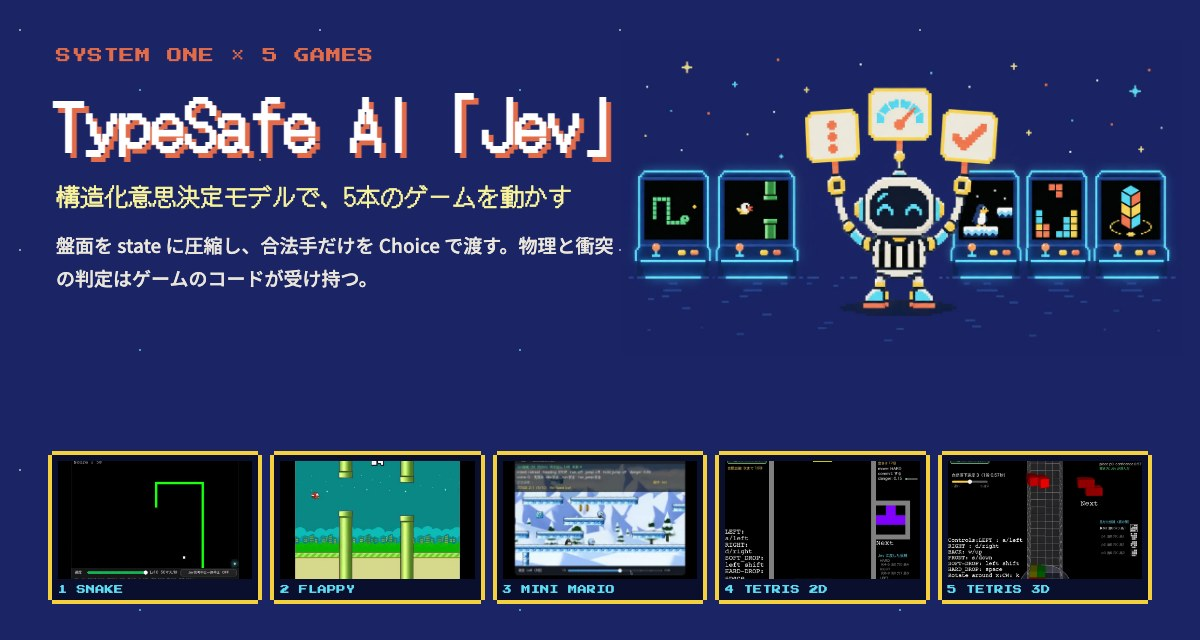
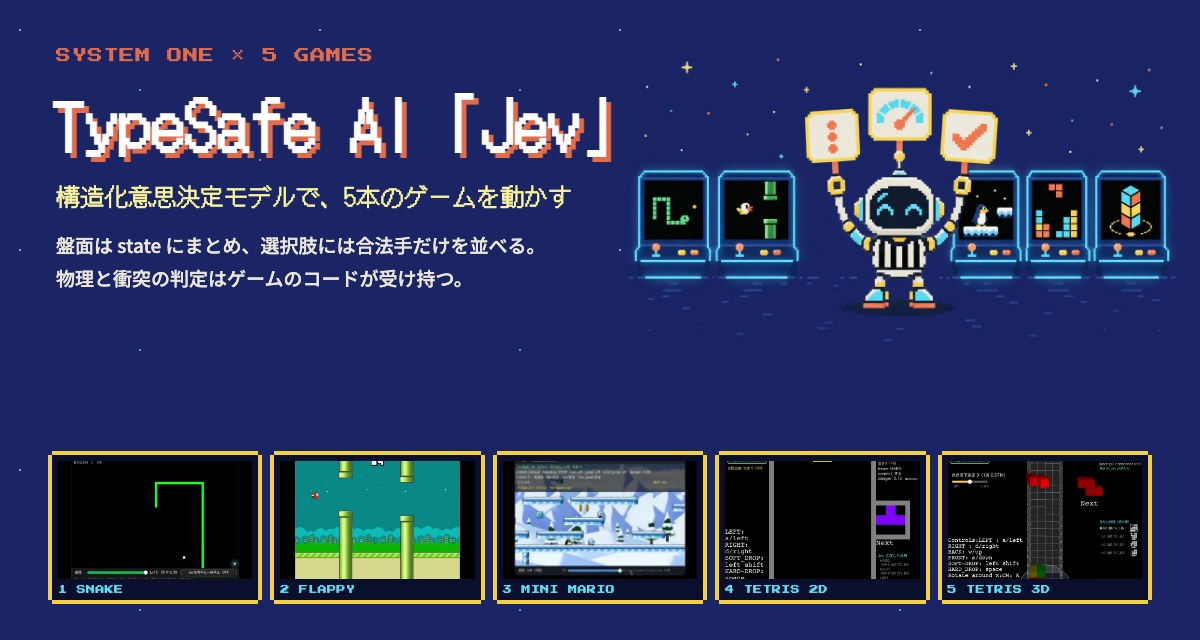
Jev のページを Codex の校正に沿って直し、経歴文の節を外す
- 経歴文（職務経歴書用）の節と COPY ボタンを削除（文はローカルの .md に移した）
- 表紙に「合法手」の説明を追加
- Jev とゲームのコードの分担、Choice 以外の型もあることを正確に書き直した
- 用語（ハーネス・生キー版・井戸・El-Tetris の重み）の説明、数字の出どころを明記
- トップのカード: 「ゲーム（…）をAIにプレイさせた。」に変更。バナー画像の文も更新

Changed region(s): [[0.0308, 0.3438, 0.5242, 0.4688]]

diff --git a/jev/index.html b/jev/index.html
@@ -6,7 +6,7 @@
 <title>TypeSafe AI「Jev」でゲームを5本動かした記録 — tobisako</title>
 <meta name="description" content="TypeSafe AI の System One モデル Jev（構造化意思決定モデル）に判定を任せ、ヘビ・フラッピーバード・ミニマリオ・テトリス2D・テトリス3Dを動かした記録と録画。">
 <meta property="og:title" content="TypeSafe AI「Jev」でゲームを5本動かした記録">
-<meta property="og:description" content="盤面を state に圧縮し、合法手だけを Choice として渡し、物理と衝突はゲームのコードが処理する。判定モデルとハーネスのデモ。">
+<meta property="og:description" content="Jev とゲームのコードで判定を分担し、ゲームを5本動かしたデモ。盤面は state にまとめ、Jev に渡す選択肢には合法手だけを並べ、物理演算と衝突判定はゲームのコードが処理する。">
 <meta property="og:image" content="https://tobisako.github.io/cv/jev/img/hero.jpg">
 <meta property="og:type" content="article">
 <link rel="icon" type="image/svg+xml" href="../assets/favicon.svg">
@@ -85,7 +85,7 @@
   @media(max-width:760px){.stats{grid-template-columns:repeat(2,1fr)}}
   .stat{--c:var(--cyan);padding:14px 16px}
   .stat .n{font-size:28px;color:var(--yellow);line-height:1.2}
-  .stat .n small{font-size:14px;color:var(--paper)}
+  .stat .n small{font-size:14px;color:var(--paper);margin-left:.3em}
   .stat .t{margin-top:4px;font-size:13.5px;color:var(--dim);line-height:1.6}
   .press{display:inline-block;margin-top:26px;font-size:13px;color:var(--pale);text-decoration:none}
   .press:hover{color:var(--yellow)}
@@ -141,7 +141,7 @@
   .select a:hover{--c:var(--yellow);transform:translate(-2px,-2px);color:#fff}
   .select a .s{font-family:"Press Start 2P",monospace;font-size:9px;color:var(--coral)}
   .select a .g{display:block;font-family:"DotGothic16",monospace;font-size:17px;margin-top:6px}
-  .dd{font-family:"Press Start 2P",monospace;font-size:.72em;letter-spacing:0}  /* DotGothic16 の D は 0 に見えるので */
+  .dd{font-family:"Press Start 2P",monospace;font-size:.72em;letter-spacing:0;margin-left:.35em}  /* DotGothic16 の D は 0 に見えるので */
   .select a img{display:block;width:100%;aspect-ratio:4/3;object-fit:cover;margin-top:8px;image-rendering:auto;filter:saturate(1.1)}
 
   /* ステージ */
@@ -180,12 +180,6 @@
   .tip{--c:var(--yellow);padding:14px 18px 14px 58px;position:relative;font-size:16px;line-height:1.8}
   .tip::before{content:"★";position:absolute;left:18px;top:12px;color:var(--yellow);font-size:22px}
 
-  /* 経歴文（紙） */
-  .paper{--c:var(--paper);background:var(--paper);color:var(--ink);padding:22px 24px;margin-top:18px;font-size:16px;line-height:2}
-  .copy{margin-top:12px;font-family:"Press Start 2P",monospace;font-size:10px;background:var(--coral);color:#fff;border:0;padding:10px 14px;cursor:pointer}
-  .copy:hover{background:var(--yellow);color:var(--ink)}
-  .copied{margin-left:10px;font-family:"Press Start 2P",monospace;font-size:10px;color:var(--yellow);opacity:0;transition:opacity .2s}
-
   /* 出典 */
   .credits{margin-top:14px;font-size:14px;line-height:1.9;color:var(--dim)}
   .credits li{margin-left:1.2em}
@@ -221,7 +215,7 @@
     <div class="kicker arcade">SYSTEM ONE × 5 GAMES</div>
     <h1 class="dot">TypeSafe AI「Jev」<small>System One モデル／構造化意思決定モデル</small></h1>
     <div class="en mono">TypeSafe AI Jev — System One evaluation model (typed decisions: Choice / Score / Boolean)</div>
-    <p class="lead">Jev に判定を任せて、ゲームを5本動かしました。盤面を state に圧縮し、合法手だけを Choice として渡し、物理と衝突はゲームのコードが処理します。そのつくりと録画をまとめたページです。</p>
+    <p class="lead">Jev とゲームのコードで判定を分担して、ゲームを5本動かしました。盤面は state にまとめ、Jev に渡す選択肢には合法手だけを並べます。将棋・囲碁・チェスでは「ルール上打てる手」を合法手と呼びます。物理演算と衝突判定はゲームのコードが処理します。このページには、そのつくりと録画をまとめました。</p>
 
     <div class="hero-grid">
       <img class="hero-img" src="img/hero.jpg" alt="3枚の札（選択肢・メーター・チェック）を上げた判定係のロボットと、ヘビ・鳥・ペンギン・落ちものブロック・3Dの塔が映る5台のゲーム画面" width="1200" height="676">
@@ -232,10 +226,10 @@
     </div>
 
     <div class="stats">
-      <div class="stat pxbox"><div class="n dot" data-count="5">5<small> 本</small></div><div class="t">ゲーム（ヘビ・フラッピーバード・ミニマリオ・テトリス2D・テトリス3D）</div></div>
-      <div class="stat pxbox"><div class="n dot" data-count="13">13<small> 本</small></div><div class="t">録画（ほかにスクリーンショット4枚）</div></div>
-      <div class="stat pxbox"><div class="n dot" data-count="3">3<small> 種類</small></div><div class="t">判定の型（Choice / Score / Boolean）</div></div>
-      <div class="stat pxbox"><div class="n dot">0.3〜0.7<small> 秒</small></div><div class="t">1回の判定（この環境での計測）</div></div>
+      <div class="stat pxbox"><div class="n dot" data-count="5">5<small>本</small></div><div class="t">ゲーム（ヘビ・フラッピーバード・ミニマリオ・テトリス2D・テトリス3D）</div></div>
+      <div class="stat pxbox"><div class="n dot" data-count="13">13<small>本</small></div><div class="t">録画（ほかにスクリーンショット4枚）</div></div>
+      <div class="stat pxbox"><div class="n dot" data-count="3">3<small>種類</small></div><div class="t">判定の型（Choice / Score / Boolean）</div></div>
+      <div class="stat pxbox"><div class="n dot">0.3〜0.7<small>秒</small></div><div class="t">1回の判定（この環境での計測）</div></div>
     </div>
     <a class="press arcade" href="#select">PRESS START <span class="blink">▶</span></a>
   </header>
@@ -244,9 +238,9 @@
   <section id="about">
     <h2>Jev とは <span class="tag">ABOUT</span></h2>
     <div class="body">
-      <p>Jev は TypeSafe AI が 2026 年に出した、文章を書かない意思決定モデルです。入力は会話履歴ではなく、プログラムが渡す state（状況）と、型のついた questions（判定項目）です。出力は作文ではなく、選択肢・スコア・真偽の確率です。コードはその値で分岐します。</p>
+      <p>Jev は、TypeSafe AI が 2026 年に公開した意思決定モデルです。入力は会話履歴ではなく、プログラムが渡す state（状況）と、型のついた questions（判定項目）です。出力は文章ではなく、選択の結果・スコア・真である確率で、コードはその値で分岐します。</p>
       <p>ChatGPT 系は、トークンを順に生成する対話・作文のモデルです。Jev は、同じ state に対する複数の判定をまとめて返し、その値をソフトウェアがそのまま使います。公式ブログはこれを「<span class="mono">unstructured state in, typed probabilistic decisions out</span>」と書いています。<a class="src" href="https://typesafe.ai/blog/introducing-system-one-models-and-jev" target="_blank" rel="noopener">[1]</a> Jev を置くのは、エージェントやゲームループの中で次の一手を決める層です。</p>
-      <p>Vercel AI Gateway でのモデル名は <code>typesafe-ai/jev</code> で、呼び出しはチャット API ではなく AI SDK の evaluate です。<a class="src" href="https://vercel.com/docs/ai-gateway/modalities/evaluation" target="_blank" rel="noopener">[4]</a> 判定の種類は Choice（列挙から1つ選ぶ）、Score（段階の尺度）、Boolean（真である確率。TypeSafe のドキュメントでの名前は Noul）の3つです。<a class="src" href="https://docs.typesafe.ai/concepts/system-one" target="_blank" rel="noopener">[2]</a></p>
+      <p>Vercel AI Gateway でのモデル名は <code>typesafe-ai/jev</code> で、チャット API ではなく、AI SDK の evaluate から呼び出します。<a class="src" href="https://vercel.com/docs/ai-gateway/modalities/evaluation" target="_blank" rel="noopener">[4]</a> 判定の種類は3つで、AI SDK の型名では Choice（並べた候補から1つ選ぶ）、Score（段階で評価する）、Boolean（真である確率）です。Boolean は、TypeSafe AI のドキュメントでは Noul と呼ばれています。<a class="src" href="https://docs.typesafe.ai/concepts/system-one" target="_blank" rel="noopener">[2]</a></p>
     </div>
   </section>
 
@@ -268,7 +262,7 @@
   <!-- ===== 共通のつくり ===== -->
   <section id="harness">
     <h2>5本に共通するつくり <span class="tag">HARNESS</span></h2>
-    <div class="body"><p>ゲームのデモは、Jev 単体にゲームを遊ばせたものではありません。判定モデルと、それを囲むハーネスの組み合わせです。</p></div>
+    <div class="body"><p>ゲームのデモは、Jev 単体にゲームを遊ばせたものではありません。判定モデルと、その周りで Jev を制御するコード（ハーネス）の組み合わせです。</p></div>
     <div class="flow" aria-label="処理の流れ">
       <div class="node pxbox"><b>ゲーム</b><span>Python・pygame</span></div>
       <div class="arrow" aria-hidden="true">▶</div>
@@ -284,9 +278,9 @@
     </div>
     <ol class="rules">
       <li class="pxbox">画面は送らない。盤面・位置・先読みの結果を、JSON 形式の state にまとめる。</li>
-      <li class="pxbox">選択肢は、コードが「打てる」と確かめた手だけにする。各選択肢には、選んだ場合にどうなるかを示す数字を添える。</li>
+      <li class="pxbox">選択肢は、コードが「打てる」と確かめた手（合法手）だけにする。各選択肢には、選んだ場合にどうなるかを示す数字を添える。</li>
       <li class="pxbox">物理・当たり判定・ライン消しには、ゲーム側のコードをそのまま使う。Jev が返すのは、どの分岐を選ぶかだけ。</li>
-      <li class="pxbox">答えが来ない・遅い・候補の外のときは、コードが先読みで1位になった手を選んで進める。</li>
+      <li class="pxbox">答えが来ないとき、間に合わないとき、候補にない答えが返ってきたときは、コード自身の評価で1位の手を選んで進める。</li>
     </ol>
     <div class="term pxbox mono" aria-live="off">
       <div class="bar">BRIDGE LOG — 127.0.0.1:8787</div>
@@ -302,8 +296,8 @@
       <a class="pxbox" href="#stage1"><span class="s">STAGE 1</span><span class="g">ヘビ</span><img src="media/snake-window.jpg" alt="" loading="lazy"></a>
       <a class="pxbox" href="#stage2"><span class="s">STAGE 2</span><span class="g">フラッピーバード</span><img src="media/flappy.jpg" alt="" loading="lazy"></a>
       <a class="pxbox" href="#stage3"><span class="s">STAGE 3</span><span class="g">ミニマリオ</span><img src="media/mario.jpg" alt="" loading="lazy"></a>
-      <a class="pxbox" href="#stage4"><span class="s">STAGE 4</span><span class="g">テトリス <span class="dd">2D</span></span><img src="media/tetris2d-v2.jpg" alt="" loading="lazy"></a>
-      <a class="pxbox" href="#stage5"><span class="s">STAGE 5</span><span class="g">テトリス <span class="dd">3D</span></span><img src="media/tetris3d.jpg" alt="" loading="lazy"></a>
+      <a class="pxbox" href="#stage4"><span class="s">STAGE 4</span><span class="g">テトリス<span class="dd">2D</span></span><img src="media/tetris2d-v2.jpg" alt="" loading="lazy"></a>
+      <a class="pxbox" href="#stage5"><span class="s">STAGE 5</span><span class="g">テトリス<span class="dd">3D</span></span><img src="media/tetris3d.jpg" alt="" loading="lazy"></a>
     </div>
   </section>
 
@@ -322,7 +316,7 @@
         <div class="facts">
           <div class="fact pxbox"><span class="k">Jev に聞くこと</span>次に進む向き（Choice）。逆走や即死につながる向きは、コードが先に選択肢から外す。</div>
           <div class="fact pxbox"><span class="k">コードが受け持つこと</span>向きごとに、進んだ先の状態（エサまでの距離、残る広さ）を計算して、選択肢の説明に書く。壁に当たってもゲームオーバーにせず、画面を赤く光らせる。</div>
-          <div class="fact pxbox"><span class="k">経過</span>最初は向きの名前だけを渡し、答えは RIGHT に偏った。向きごとの先読みの結果を選択肢に書き足すと、Jev がエサに近づく向きを選ぶようになった。</div>
+          <div class="fact pxbox"><span class="k">経過</span>最初は向きの名前だけを渡したところ、Jev の答えは RIGHT に偏った。向きごとの先読みの結果を選択肢に書き足すと、Jev がエサに近づく向きを選ぶようになった。</div>
         </div>
         <div class="score pxbox"><span class="l">SCORE</span><span class="v" data-hiscore="81">81 点</span></div>
         <div class="cap">録画の中での最高得点</div>
@@ -362,32 +356,32 @@
       </div>
       <div>
         <div class="facts">
-          <div class="fact pxbox"><span class="k">Jev に聞くこと</span>4フレームに1回、6問を1回の evaluate で（進む・戻る等の方針、左右、ダッシュ、ジャンプ、長押し、危険度）。</div>
+          <div class="fact pxbox"><span class="k">Jev に聞くこと</span>6問（進む・戻る等の方針、左右、ダッシュ、ジャンプ、長押し、危険度）。4フレームに1回、1回の evaluate でまとめて聞く。</div>
           <div class="fact pxbox"><span class="k">コードが受け持つこと</span>物理演算と当たり判定、同じ物理モデルでの先読み（跳んだら着地まで確かめる）、安全装置。安全装置は Jev の答えより優先する。</div>
-          <div class="fact pxbox"><span class="k">ステージ</span>自作4本と、SuperTux のアドオン用コースから変換した6本の、計10本。速度は20倍まで上げられる。</div>
-          <div class="fact pxbox"><span class="k">通信</span>録画の終わりの時点で、問い合わせ205回のうち失敗5回（0.7秒の打ち切り）。この回の起動からの計測では、答えが届くまでの時間は中央値0.32秒、最大0.65秒。</div>
+          <div class="fact pxbox"><span class="k">ステージ</span>自作の4本と、SuperTux のアドオン用コースから変換した6本の計10本。速度は20倍まで上げられる。</div>
+          <div class="fact pxbox"><span class="k">通信</span>この節の録画が終わった時点で、問い合わせは205回、そのうち失敗は5回（打ち切りは0.7秒）。この回の起動からの計測では、答えが届くまでの時間は中央値0.32秒、最大0.65秒。</div>
         </div>
         <div class="score pxbox"><span class="l">STAGE</span><span class="v">9 / 10</span></div>
-        <div class="cap">録画では STAGE 2-5「Ghostforest」まで到達</div>
+        <div class="cap">録画では、10ステージ中9番目の STAGE 2-5「Ghostforest」まで到達</div>
       </div>
     </div>
   </section>
 
   <!-- ===== STAGE 4 ===== -->
   <section class="stage" id="stage4">
-    <div class="head"><span class="num">STAGE 4</span><h3>テトリス <span class="dd">2D</span></h3>
+    <div class="head"><span class="num">STAGE 4</span><h3>テトリス<span class="dd">2D</span></h3>
       <span class="orig">元のゲーム: <a href="https://github.com/GABETROLL/Tetris3D" target="_blank" rel="noopener">GABETROLL/Tetris3D</a> の 2D モード（10×20）</span></div>
     <div class="grid">
       <div class="vids">
         <div><div class="cabinet pxbox"><video src="media/tetris2d-v2.mp4" poster="media/tetris2d-v2.jpg" controls preload="none" playsinline></video></div>
-          <div class="cap">録画2（効果音あり）。右上に送受信のハートビート、盤の上に「間に合わず」の表示を付けた版。13倍速で26ラインを消した。</div></div>
+          <div class="cap">録画2（効果音あり）。右上に Jev との送受信を示すハートビート、盤の上に「間に合わず」（Jev の答えが届く前にミノが固定された印）の表示を付けた版。13倍速で26ラインを消した。</div></div>
         <div><div class="cabinet pxbox"><video src="media/tetris2d.mp4" poster="media/tetris2d.jpg" controls preload="none" playsinline></video></div>
           <div class="cap">録画1（効果音あり）。10秒ごとに速度を上げて、16倍速で67ラインのときゲームオーバー。</div></div>
       </div>
       <div>
         <div class="facts">
-          <div class="fact pxbox"><span class="k">Jev に聞くこと</span>このミノをどこに置くか（Choice）、Jev が選んだ場所にミノが着いたら落とすか（Boolean）、危険度（Score）。</div>
-          <div class="fact pxbox"><span class="k">コードが受け持つこと</span>置き場所を全部、ゲーム自身の関数で試して点を付ける（El-Tetris の重み）。1位との点差が15点以内の候補だけを、最大4つ渡す。1つしか残らなければ聞かずに置く。</div>
+          <div class="fact pxbox"><span class="k">Jev に聞くこと</span>このミノをどこに置くか（Choice）、選んだ位置と向きまでミノを動かしたら、そこで一気に落とすか（Boolean）、危険度（Score）。</div>
+          <div class="fact pxbox"><span class="k">コードが受け持つこと</span>置き場所をすべてゲーム自身の関数で試し、置いたあとの盤を El-Tetris の重み（着地の高さ・消えるライン・穴などに掛ける係数）で採点する。1位との点差が15点以内の候補だけを、最大4つ渡す。1つしか残らなければ聞かずに置く。</div>
           <div class="fact pxbox"><span class="k">繋ぐ前に確かめたこと</span>候補からでたらめに選ぶ偽の橋でも、800個のミノを置くまでゲームオーバーにならなかった。</div>
           <div class="fact pxbox"><span class="k">ゲームオーバーの理由</span>16倍速では、Jev が答える約0.3秒のあいだにミノが約10段落ちる。応答の遅れだけを16倍速のときと同じにしたシミュレーションでも、約72ラインで同じように終わった。</div>
         </div>
@@ -399,7 +393,7 @@
 
   <!-- ===== STAGE 5 ===== -->
   <section class="stage" id="stage5">
-    <div class="head"><span class="num">STAGE 5</span><h3>テトリス <span class="dd">3D</span></h3>
+    <div class="head"><span class="num">STAGE 5</span><h3>テトリス<span class="dd">3D</span></h3>
       <span class="orig">元のゲーム: <a href="https://github.com/GABETROLL/Tetris3D" target="_blank" rel="noopener">GABETROLL/Tetris3D</a> の 3D モード（4×4×20）</span></div>
     <div class="grid">
       <div class="vids">
@@ -407,17 +401,17 @@
           <div class="cap">置き場所を比べる版（効果音あり）。右上に Jev に見せた p0〜p3 と、それぞれの落ちたあとの一番下の層。左上は速度と自然落下速度のスライダー。</div></div>
         <div class="vids two">
           <div><div class="cabinet pxbox"><video src="media/tetris3d-raw1.mp4" poster="media/tetris3d-raw1.jpg" controls preload="none" playsinline></video></div>
-            <div class="cap">生キー版・最初の形。選んだキーを次の答えまで毎フレーム押し続ける。</div></div>
+            <div class="cap">生キー版（Jev にキーを直接選ばせる版）の最初の形。選んだキーを、次の答えが来るまで毎フレーム押し続ける。</div></div>
           <div><div class="cabinet pxbox"><video src="media/tetris3d-raw2.mp4" poster="media/tetris3d-raw2.jpg" controls preload="none" playsinline></video></div>
-            <div class="cap">生キー版・1回の答えでキー1回。</div></div>
+            <div class="cap">生キー版の2つ目の形。1回の答えにつき、キーを1回だけ押す。</div></div>
         </div>
       </div>
       <div>
         <div class="facts">
           <div class="fact pxbox"><span class="k">生キー版</span>Jev に回転キー（<span class="mono">ROTATE_CW_X</span> など）を直接選ばせた。答えは21回すべて HARD（その場で落とす）だった。回転は一度も起きず、約15秒で終わり、消えた層は0。</div>
-          <div class="fact pxbox"><span class="k">置き場所を比べる版</span>コードが最大24姿勢×16位置の置き方それぞれについて、Game3D と同じ関数でミノを回して落とし、落ちたあとの井戸（<span class="mono">after_layers</span>）を上位4つだけ見せる。Jev は p0〜p3 から1つ選ぶ。</div>
-          <div class="fact pxbox"><span class="k">試験</span>候補ごとの after_layers が、本物の盤でその候補の置き方どおりにミノを落として固定した結果と一致することを、乱数を変えた5通りの試合で、60ミノずつ確かめた。</div>
-          <div class="fact pxbox"><span class="k">見た目</span>井戸は20秒で1周する。ミノの回転は、1回0.5秒かけて見せる。層が消えると「+1」と出る。自由落下は1段2000msから始まり、レベルが上がるごとに間隔が100ms短くなる。</div>
+          <div class="fact pxbox"><span class="k">置き場所を比べる版</span>コードが、最大24姿勢×16位置の置き方それぞれについて、Game3D と同じ関数でミノを回して落とす。点が高い4通りの置き方について、ミノを落としたあとの井戸の層（<span class="mono">after_layers</span>）を Jev に見せる。井戸は、ミノを積む 4×4×20 の枠のこと。Jev は p0〜p3 から1つ選ぶ。</div>
+          <div class="fact pxbox"><span class="k">試験</span>乱数を変えた5試合で、各60ミノについて、候補ごとの after_layers が、本物の盤でその候補どおりにミノを落として固定した結果と一致することを確かめた。</div>
+          <div class="fact pxbox"><span class="k">見た目</span>井戸は20秒で1周する。ミノの回転は、1回につき0.5秒かけて見せる。層が消えると「+1」と出る。自然落下の間隔は、1段あたり2000msから始まり、レベルが上がるごとに100msずつ短くなる。</div>
         </div>
         <div class="score pxbox"><span class="l">JEV</span><span class="v">92 / 101 ミノ</span></div>
         <div class="cap">置き場所を比べる版の録画。101ミノのうち、Jev が配置を選んだのは92ミノ。消えたのは20層、到達したレベルは6。</div>
@@ -432,8 +426,8 @@
     <div class="snaps">
       <figure class="snap pxbox" style="--r:-1.5deg"><img src="media/ss-snake.jpg" alt="ヘビのゲーム画面" loading="lazy">
         <figcaption><span class="kind">STAGE 1 · SHOT</span>ヘビ（速度 Lv10、毎秒50マス）。最下段は Jev の答え（UP、確率0.74）と応答時間（369ms）。</figcaption></figure>
-      <figure class="snap pxbox" style="--r:1deg"><video src="media/clip-flappy.mp4" poster="media/clip-flappy.jpg" autoplay muted loop playsinline aria-label="フラッピーバードの10秒の録画"></video>
-        <figcaption><span class="kind">STAGE 2 · CLIP</span>フラッピーバードの10秒の録画。スクロール速度150%で、スコアが63点から74点まで上がる場面。</figcaption></figure>
+      <figure class="snap pxbox" style="--r:1deg"><video src="media/clip-flappy.mp4" poster="media/clip-flappy.jpg" autoplay muted loop playsinline aria-label="フラッピーバードの10秒間の録画"></video>
+        <figcaption><span class="kind">STAGE 2 · CLIP</span>フラッピーバードを10秒間録画したもの。スクロール速度150%で、スコアが63点から74点まで上がる場面。</figcaption></figure>
       <figure class="snap pxbox" style="--r:-0.8deg"><img src="media/ss-flappy.jpg" alt="フラッピーバードのゲーム画面" loading="lazy">
         <figcaption><span class="kind">STAGE 2 · SHOT</span>フラッピーバード（スクロール速度150%、土管の隙間112px）。</figcaption></figure>
       <figure class="snap pxbox" style="--r:1.6deg"><img src="media/ss-flappy-over.jpg" alt="フラッピーバードのゲームオーバー画面、108点" loading="lazy">
@@ -441,7 +435,7 @@
       <figure class="snap pxbox" style="--r:1.2deg"><img src="media/ss-mario.jpg" alt="ミニマリオ STAGE 1-1 の画面" loading="lazy">
         <figcaption><span class="kind">STAGE 3 · SHOT</span>ミニマリオ STAGE 1-1。上の欄は Jev の6問の答えと先読みの結果で、この場面では止まると死に、走れば安全。</figcaption></figure>
       <figure class="snap pxbox" style="--r:-1.4deg"><video src="media/clip-mario-allclear.mp4" poster="media/clip-mario-allclear.jpg" autoplay muted loop playsinline aria-label="ミニマリオの ALL CLEAR 画面"></video>
-        <figcaption><span class="kind">STAGE 3 · CLIP</span>全10ステージを通った最後の画面（ALL CLEAR）。Jev への問い合わせは350回、失敗は7回。この時点では、右上の操作欄に「人間」と表示されている。</figcaption></figure>
+        <figcaption><span class="kind">STAGE 3 · CLIP</span>全10ステージを終えたあとの画面（ALL CLEAR）。画面の表示では、Jev への問い合わせは350回、失敗は7回。この時点では、右上の操作欄に「人間」と表示されている（キーボードからの入力があると、この表示に切り替わる）。</figcaption></figure>
       <figure class="snap pxbox" style="--r:0.9deg"><video src="media/clip-3d-spin1.mp4" poster="media/clip-3d-spin1.jpg" autoplay muted loop playsinline aria-label="回るテトリス3Dの井戸"></video>
         <figcaption><span class="kind">STAGE 5 · CLIP</span>テトリス3D。20秒で1周する井戸の動きと、底の円。</figcaption></figure>
       <figure class="snap pxbox" style="--r:-1deg"><video src="media/clip-3d-spin2.mp4" poster="media/clip-3d-spin2.jpg" autoplay muted loop playsinline aria-label="テトリス3Dと Jev に見せた候補"></video>
@@ -455,15 +449,8 @@
     <div class="tips">
       <div class="tip pxbox">キーを直接選ばせると、Jev は毎回 HARD を選んだ。回して落とした結果を並べて比べさせると、101個のミノのうち92個が、Jev の選んだ配置どおりに置かれた。</div>
       <div class="tip pxbox">Jev の応答は0.3〜0.7秒。ゲームが速くなると、その間にミノや鳥が動く。先読み・安全装置・「間に合わず」の表示はコードの側に置いた。</div>
-      <div class="tip pxbox">片方を選んだときにしか生き残れない場面では、どちらを選ぶかをコードが決め、どちらを選んでもよい場面でだけ Jev に聞いた（フラッピーバード・テトリス）。テトリス2Dでは、この絞り方なら、候補の中からでたらめに選んでも、800個のミノを置くまでゲームオーバーにならなかった。</div>
+      <div class="tip pxbox">フラッピーバードでは、はばたく・はばたかないの一方でしか生き残れない場面はコードが決め、どちらでも生き残れる場面だけ Jev に聞いた。テトリス2Dでは、1位の候補との点差が15点以内の置き場所だけを残し、1つしか残らなければコードが置いた。この絞り方なら、候補からでたらめに選んでも、800個のミノを置くまでゲームオーバーにならなかった。</div>
     </div>
-  </section>
-
-  <!-- ===== 経歴文 ===== -->
-  <section id="cv">
-    <h2>経歴文（職務経歴書用） <span class="tag">CV</span></h2>
-    <div class="paper pxbox" id="cvtext">TypeSafe AI の System One モデル Jev（構造化意思決定モデル）を用い、会話型LLMを介さず、evaluate API で Choice / Score / Boolean を返す経路を実装。Vercel AI Gateway（typesafe-ai/jev）経由で、複数のリアルタイム／ターン制ゲームに対し、ゲーム状態の圧縮・合法手の列挙・モデル判定・安全側フォールバックまでを一連のデモとして構築。生成モデルの代替ではなく、判定結果でソフトウェアが直接分岐できる判定レイヤとしての適用を検証。</div>
-    <button class="copy" type="button" id="copybtn">COPY</button><span class="copied" id="copied">COPIED!</span>
   </section>
 
   <!-- ===== 出典 ===== -->
@@ -537,14 +524,6 @@
     seen.unobserve(e.target);
   }), {threshold: 1});
   document.querySelectorAll("[data-hiscore]").forEach(el => seen.observe(el));
-
-  // 経歴文のコピー
-  document.getElementById("copybtn").addEventListener("click", async () => {
-    try { await navigator.clipboard.writeText(document.getElementById("cvtext").innerText.trim()); }
-    catch (e) { const r = document.createRange(); r.selectNodeContents(document.getElementById("cvtext"));
-      const s = getSelection(); s.removeAllRanges(); s.addRange(r); document.execCommand("copy"); }
-    const c = document.getElementById("copied"); c.style.opacity = 1; setTimeout(() => c.style.opacity = 0, 1400);
-  });
 
   // 隠し: ↑↑↓↓←→←→BA でブロックが降る
   const code = ["ArrowUp","ArrowUp","ArrowDown","ArrowDown","ArrowLeft","ArrowRight","ArrowLeft","ArrowRight","b","a"];

diff --git a/index.html b/index.html
@@ -118,7 +118,7 @@
         <a class="banner" href="jev/" target="_blank" rel="noopener">
           <div class="shot"><img src="assets/banners/Jev.jpg" alt="TypeSafe AI「Jev」× ゲーム5本" loading="lazy"></div>
           <div class="meta"><div class="t">TypeSafe AI「Jev」× ゲーム5本<span class="tag g">AI / GAME</span></div>
-            <div class="d">TypeSafe AI の構造化意思決定モデル Jev（System One モデル）に判定を任せ、ヘビ・フラッピーバード・ミニマリオ・テトリス2D／3Dを動かしたデモ。盤面を state に圧縮し、合法手だけを Choice で渡し、物理処理・衝突判定・安全側フォールバックはゲームのコードが受け持つ。Vercel AI Gateway（typesafe-ai/jev）を AI SDK の evaluate から使う。録画13本・スクリーンショット4枚つき。</div>
+            <div class="d">TypeSafe AI の構造化意思決定モデル Jev（System One モデル）とゲームのコードで判定を分担し、ゲーム（ヘビ・フラッピーバード・ミニマリオ・テトリス2D／3D）をAIにプレイさせた。盤面を state（状況のデータ）にまとめ、Jev に渡す選択肢には合法手だけを並べる。物理演算・衝突判定と、答えが来ないときの代わりの手は、ゲームのコードが受け持つ。Jev は Vercel AI Gateway 経由で、AI SDK の evaluate から呼ぶ。録画13本・スクリーンショット4枚つき。</div>
             <div class="u mono">tobisako.github.io/cv/jev</div></div></a>
         <a class="banner" href="https://gridjapan.github.io/gjHtmlSlideComposer/jp/" target="_blank" rel="noopener">
           <div class="shot"><img src="assets/banners/gjHtmlSlideComposer.jpg" alt="GJ HTML SLIDE COMPOSER" loading="lazy"></div>
